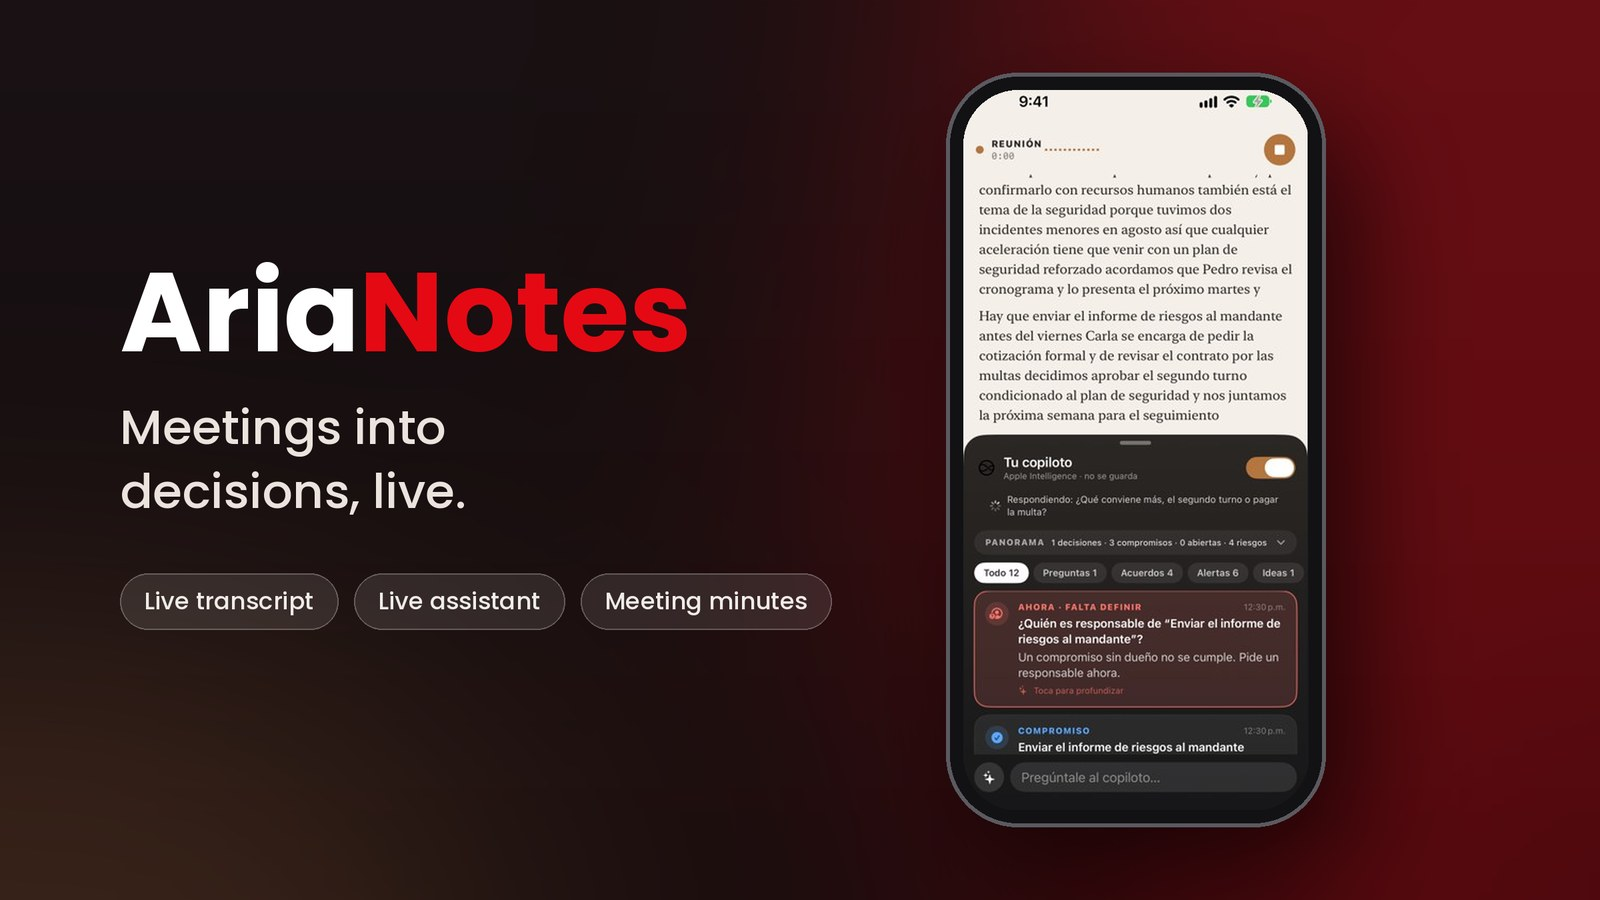
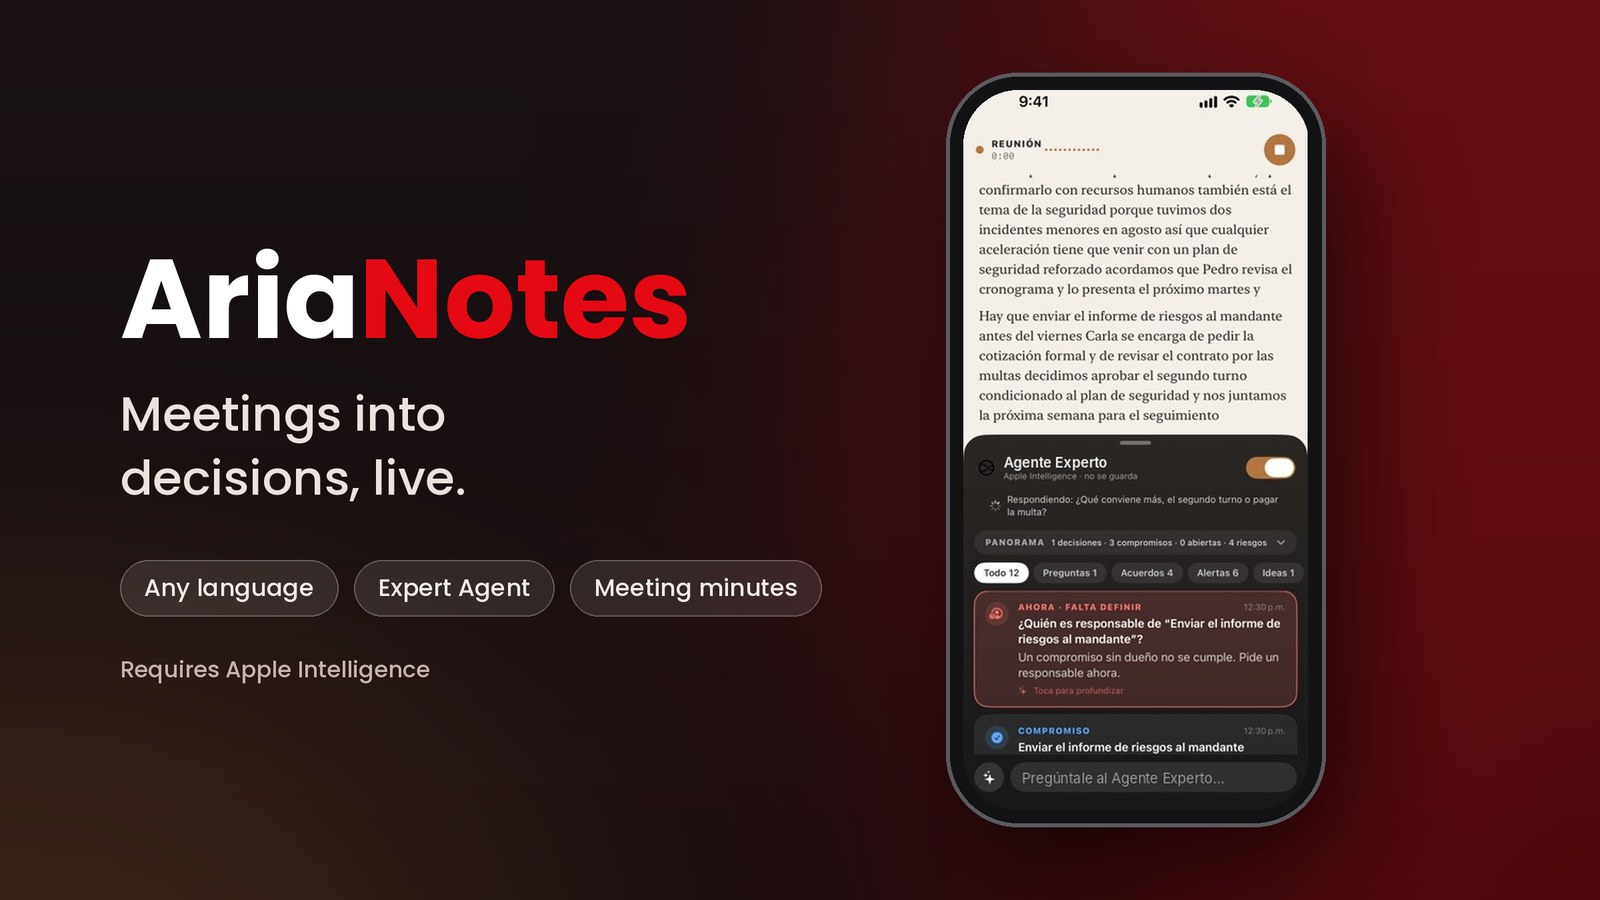
Apps: AriaNotes cover v3 (Expert Agent, requires Apple Intelligence)
Claude-Session: https://claude.ai/code/session_01WrKhaQCBe3nh5WJNmrP1wi

diff --git a/apps/index.html b/apps/index.html
@@ -45,7 +45,7 @@ requestAnimationFrame(f)})();</script>
 
 <div class="ap-h2"><div><span class="mono">More ARIA apps</span><h2>Coming soon &amp; <i>early access</i>.</h2></div></div>
 <div class="ap-grid">
- <article class="ap-card rv"><div class="cimg" data-open="arianotes"><img src="/apps/img/arianotes.jpg?v=2" alt="AriaNotes" loading="lazy"><span class="st dev">In App Store review</span></div>
+ <article class="ap-card rv"><div class="cimg" data-open="arianotes"><img src="/apps/img/arianotes.jpg?v=3" alt="AriaNotes" loading="lazy"><span class="st dev">In App Store review</span></div>
   <div class="cb"><div class="ch"><img src="/img/arianotes.png" alt=""><b>Aria<em>Notes</em></b></div><p class="ws">Meetings into decisions, live. Transcript, speakers, live assistant and minutes — on-device.</p><span class="wc">Productivity · Requires Apple Intelligence</span>
   <div class="ap-acts"><span class="ap-soon" title="Coming soon to the App Store"><img src="/img/badges/en-us.svg" alt="Coming soon to the App Store"><span>Soon</span></span><button class="ap-btn lt" data-open="arianotes">Details</button></div></div></article>
  <article class="ap-card rv"><div class="cimg" data-open="sportsrings"><img src="/sportsrings/hero.jpg" alt="SportsRings" loading="lazy"><span class="st soon">Early access</span></div>
@@ -65,7 +65,7 @@ requestAnimationFrame(f)})();</script>
 <div class="soon rv" style="margin-top:56px"><b>More apps are on the way.</b>Each one lands here the day it reaches the App Store.</div>
 </div>
 <div class="ap-sticky" id="apst"><img src="/img/ariafiles.png" alt=""><div><b>ARIAfiles</b><small>Files on your Apple Watch · $1.99</small></div><a class="ap-badge" href="https://apps.apple.com/app/id6832297841" target="_blank" rel="noopener" aria-label="Download on the App Store"><img src="/img/badges/en-us.svg" alt="Download on the App Store" style="height:40px"></a></div>
-<dialog class="md" id="m-arianotes"><div class="mbox"><button class="x" aria-label="Close">×</button><div class="mimg"><img src="/apps/img/arianotes.jpg?v=2" alt=""></div><div class="mt"><span class="tag">Productivity · iPhone · iPad · Apple Watch</span><span class="st dev">In App Store review · $1.99</span><h2>Aria<em>Notes</em></h2><p>Notes that listen, understand and organize themselves. Record a meeting and get the full transcript, who said what, an Expert Agent with answers, suggestions and fact-checks, and an executive minutes report. Your Apple Watch shows the Expert Agent and can start a meeting from your wrist. Transcription and analysis run on your device.</p><p class="req" style="margin-top:10px;font-size:14px;color:var(--tx2)"><b style="font-size:14px;color:var(--red)">Requires Apple Intelligence.</b> iPhone 15 Pro or later, or iPad with M1 / A17 Pro or later. Apple Watch companion works with a compatible iPhone.</p><div class="chips"><span>Live transcription</span><span>Speaker detection</span><span>Expert Agent</span><span>Meeting minutes</span><span>Apple Watch</span><span>On-device &amp; private</span><span>Apple Intelligence</span></div></div></div></dialog>
+<dialog class="md" id="m-arianotes"><div class="mbox"><button class="x" aria-label="Close">×</button><div class="mimg"><img src="/apps/img/arianotes.jpg?v=3" alt=""></div><div class="mt"><span class="tag">Productivity · iPhone · iPad · Apple Watch</span><span class="st dev">In App Store review · $1.99</span><h2>Aria<em>Notes</em></h2><p>Notes that listen, understand and organize themselves. Record a meeting and get the full transcript, who said what, an Expert Agent with answers, suggestions and fact-checks, and an executive minutes report. Your Apple Watch shows the Expert Agent and can start a meeting from your wrist. Transcription and analysis run on your device.</p><p class="req" style="margin-top:10px;font-size:14px;color:var(--tx2)"><b style="font-size:14px;color:var(--red)">Requires Apple Intelligence.</b> iPhone 15 Pro or later, or iPad with M1 / A17 Pro or later. Apple Watch companion works with a compatible iPhone.</p><div class="chips"><span>Live transcription</span><span>Speaker detection</span><span>Expert Agent</span><span>Meeting minutes</span><span>Apple Watch</span><span>On-device &amp; private</span><span>Apple Intelligence</span></div></div></div></dialog>
 <dialog class="md" id="m-ariafiles"><div class="mbox"><button class="x" aria-label="Close">×</button><div class="mimg"><img src="/apps/img/ariafiles.jpg" alt=""></div><div class="mt"><span class="tag">Productivity · iPhone · iPad · Apple Watch</span><span class="st live">Available · $1.99</span><h2>ARIA<em>files</em></h2><p>The file manager for Apple Watch, and a full pro-grade document manager on iPhone and iPad. Browse and send files from your wrist. Keep files in iCloud, scan paper to PDF, read PDF and EPUB, and find everything fast with thumbnails, favorites and a Trash to recover mistakes. Recent files travel to your Apple Watch through iCloud. Nothing is uploaded: your files stay on your devices and your iCloud.</p><div class="chips"><span>Document scanner</span><span>Trash &amp; restore</span><span>Thumbnails</span><span>iCloud sync</span><span>PDF &amp; EPUB reader</span><span>Cloud &amp; WebDAV</span><span>Apple Watch</span></div><div class="btns"><a class="badge" href="https://apps.apple.com/app/id6832297841" target="_blank" rel="noopener"><img src="/img/badges/en-us.svg" alt="Download on the App Store" height="48" style="height:48px;width:auto;display:block"></a></div></div></div></dialog>
 <dialog class="md" id="m-sportsrings"><div class="mbox"><button class="x" aria-label="Close">×</button><div class="mimg"><img src="/sportsrings/hero.jpg" alt=""></div><div class="mt"><span class="tag">Sport · Rokid Glasses · Apple Watch</span><span class="st dev">In development</span><h2>Sports<em>Rings</em></h2><p>Three rings, your heart rate and a 3D map of where you are — straight from your Apple Watch to your Rokid Glasses.</p><div class="chips"><span>Live rings</span><span>Heart rate</span><span>3D map</span><span>Offline maps</span><span>25+ sports</span><span>No data collected</span></div><div class="btns"><a class="gold" href="/sportsrings/">Open page &amp; download</a></div></div></div></dialog>
 <dialog class="md" id="m-ariamouse"><div class="mbox"><button class="x" aria-label="Close">×</button><div class="mimg"><img src="/ariamouse/hero.jpg" alt=""></div><div class="mt"><span class="tag">Utility · Apple Watch · Android</span><span class="st dev">In development</span><h2>ARIA<em>mouse</em></h2><p>Turn your Apple Watch into a trackpad for Android phones and smart glasses. Tap, slide, swipe — straight over Bluetooth.</p><div class="chips"><span>Trackpad</span><span>Bluetooth</span><span>Phones + glasses</span><span>No data collected</span></div><div class="btns"><a class="gold" href="/ariamouse/">Open page &amp; download</a></div></div></div></dialog>
